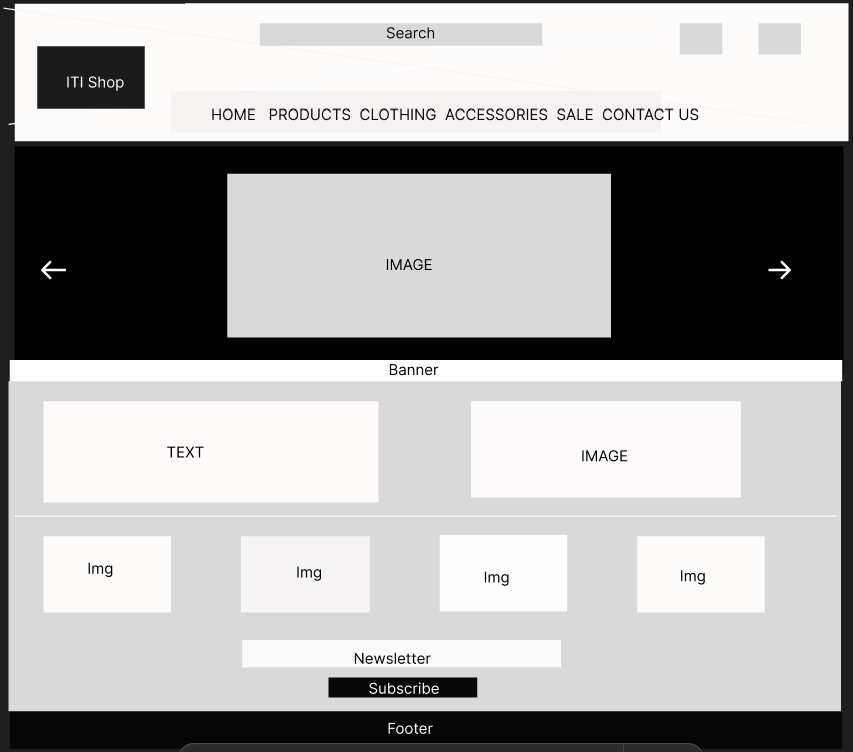
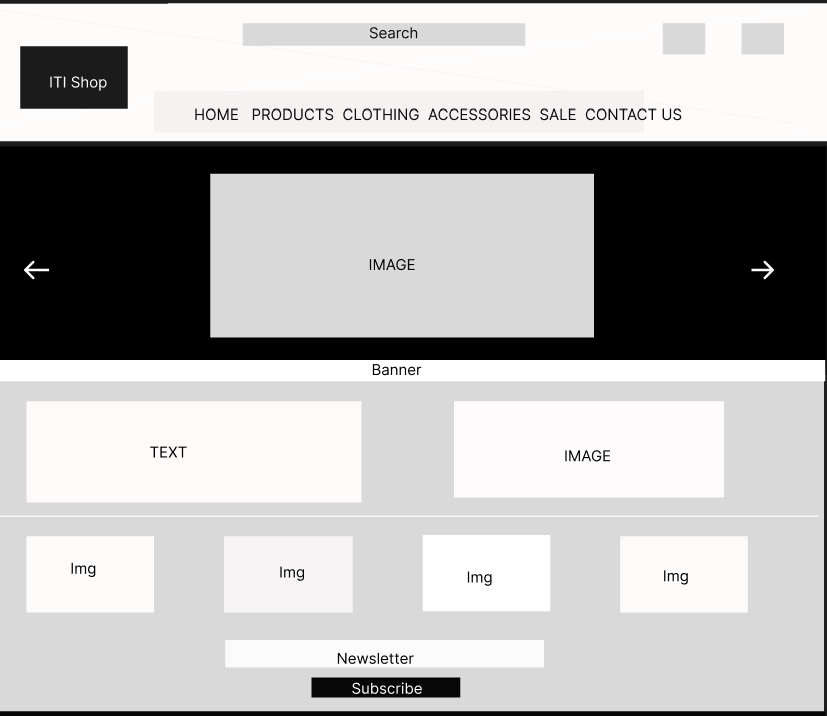
Add content and wireframes to readme file

diff --git a/README.md b/README.md
@@ -6,26 +6,30 @@
 
 #### Welcome to ITI Shop ! 
 
-It is an online clothing store offering a wide variety of fashion items. The website is easy to navigate, allowing customers to browse and purchase products quickly. With features like product reviews and wishlists, ITI Shop provides a smooth and enjoyable shopping experience. The site is designed with security in mind, ensuring that all transactions are safe and user information is protected.
+ITI Shop is an online clothing store offering a wide variety of fashion items. The website is easy to navigate, allowing customers to browse and purchase products quickly. With features like product reviews and wishlists, ITI Shop provides a smooth and enjoyable shopping experience. The site is designed with security in mind, ensuring that all transactions are safe and user information is protected.
 
 ## Table of Contents
 
 ### [UX](#ux)
-- [The Strategy Plane](#the-strategy-plane)
+- [The Strategy](#the-strategy)
 - [Targeted Users](#targeted-users)
 - [Site Goals](#site-goals)
 - [Project Goals](#project-goals)
-- [Agile Planning](#agile-planning)
-- [User Stories](#user-stories)
-- [Fundamental Structure](#fundamental-structure)
 
-### [Wireframes](#wireframes)
 
-### [Database Schema](#database-schema)
+ ## [Agile Development](#agile-development)
+  - [Project Board](#project-board)
+  - [User Stories](#user-stories)
+
+
+
+## [Wireframes](#wireframes)
+
+### [Database Design](#database-design)
 
 ### [Main Plan](#main-plan)
 
-### [Structure Plane](#structure-plane)
+### [Structure ](#structure)
 - [Features](#features)
   - [Home Page](#home-page)
   - [Random Products Section](#)
@@ -81,3 +85,144 @@ It is an online clothing store offering a wide variety of fashion items. The web
 ### [Deployment](#deployment)
 
 ### [Acknowledgements](#acknowledgements)
+
+
+## UX
+
+### The Strategy
+
+The primary goal of ITI shop is to provide an enjoyable shopping experience for users looking for fashionable and affordable clothing. The aim is to create an engaging platform that allows users to browse, purchase, and interact with products effortlessly, whether they are casual visitors, returning customers, or admin users managing the store.
+
+### Targeted Users
+
+#### First-time Users
+   * These users are visiting the site for the first time and are able to view the products available, learn about the brand, and possibly make a purchase as a guest.
+#### Registered Users
+  * These users have an account on the site, enabling them to enjoy a more personalized shopping experience, such as saving items to a wishlist, reviewing products, and managing their user account.
+#### Admin Users
+  * These users manage the site by adding and editing products, overseeing orders, and handling customer inquiries.
+
+
+### Site Goals
+
+ * Offer a user-friendly interface with clear navigation and engaging content.
+ * Encourage visitors to make purchases by providing an intuitive shopping experience.
+ * Create a platform that encourages users to return through personalized experiences, including wishlist features,
+ similar product recommendations , reviews etc.
+ * Provide admins with straightforward tools to manage products, orders, and customer interactions effectively.
+
+### Project Goals
+ * Ensure the website is accessible and visually appealing on all devices, including desktops, tablets, and smartphones.
+ * Develop functionalities such as user authentication, product browsing, shopping cart management, and a secure checkout process.
+ * Introduce features like product reviews, similar and matching product suggestions, wishlist and newsletter subscriptions to enhance user engagement.
+ * Build an easy-to-use admin interface that allows for efficient management of products, orders, and user communications.
+
+
+## Agile Development
+
+ The development of ITI Shop has followed Agile methodology, enabling continuous improvement and iterative development. User stories were created to define and prioritize the core functionalities needed for the site.
+
+#### MoSCoW
+For this project the MoSCoW technique, (Must have, Should have, Could have, Won't have) was used for planning User Stories.
+This approach helped in identifying the most critical features needed to deliver a functional and user-friendly product, ensuring that key elements were developed first to provide the best possible user experience.
+
+#### Kanban
+To efficiently manage and visualize the project's progress,the Kanban system was implemented.
+
+### Project Board
+
+The full Project Board can be found [here](https://github.com/users/Lin2907/projects/5/views/1).
+
+<img src= "media/screenshots/user-stories-board.png" alt= "Project User Stories Board">
+
+### User Stories
+Based on the user stories, a detailed project implementation plan was created. You can review the user stories [here](https://github.com/Lin2907/ITI-Shop/issues?q=is%3Aissue+is%3Aclosed).
+
+<img src= "media/screenshots/user-stories-list.png" alt= "Project User Stories List">
+
+<br>
+
+## Wireframes
+<details>
+<summary><h4 style="display: inline;">Landing page</h4></summary>
+<br>
+<img src= "media/screenshots/home-page-wireframe.png" alt= "Landing page wireframe">
+<img src= "media/screenshots/home-page-mobile.png" alt= "Landing page wireframe for mobile screens">
+</details>
+<br>
+<details>
+<summary><h4 style="display: inline;">Product Page</h4></summary>
+<br>
+<img src= "media/screenshots/product-page-wireframe.png" alt= "All products page wireframe">
+<img src= "media/screenshots/product-page-mobile.png" alt= "All products page wireframe for mobile screens">
+</details>
+<br>
+<details>
+<summary><h4 style="display: inline;">Product Detail Page</h4></summary>
+<br>
+<img src= "media/screenshots/product-detail-page-wireframe.png" alt= "Product detail page wireframe">
+<img src= "media/screenshots/product-detail-mobile.png" alt= "Product detail page wireframe for mobile screens">
+</details>
+<br>
+<details>
+<summary><h4 style="display: inline;">Newsletter Page</h4></summary>
+<br>
+<img src= "media/screenshots/newsletter-wireframe.png" alt= "Newsletter success page wireframe">
+<img src= "media/screenshots/newsletter-mobile.png" alt= "Newsletter success page wireframe for mobile screens">
+</details>
+<br>
+<details>
+<summary><h4 style="display: inline;">Add a Review Page</h4></summary>
+<br>
+<img src= "media/screenshots/add-review-wireframe.png" alt= "Add a review page wireframe">
+<img src= "media/screenshots/review-mobile.png" alt= "Add a review page wireframe for mobile screens">
+</details>
+<br>
+<details>
+<summary><h4 style="display: inline;">Contact Us Page</h4></summary>
+<br>
+<img src= "media/screenshots/contact-us-wireframe.png" alt= "Contact us page wireframe">
+<img src= "media/screenshots/contact-us-mobile.png" alt= "Contact Us page wireframe for mobile screens">
+</details>
+<br>
+<details>
+<summary><h4 style="display: inline;">Sign Up Page</h4></summary>
+<br>
+<img src= "media/screenshots/sign-up-wireframe.png" alt= "Sign up page wireframe">
+<img src= "media/screenshots/sign-up-mobile.png" alt= "Sign up page wireframe for mobile screens">
+</details>
+<br>
+<details>
+<summary><h4 style="display: inline;">Log in Page</h4></summary>
+<br>
+<img src= "media/screenshots/log-in-wireframe.png" alt= "Newsletter success page wireframe">
+<img src= "media/screenshots/log-in-mobile.png" alt= "Newsletter success page wireframe for mobile screens">
+</details>
+<br>
+<details>
+<summary><h4 style="display: inline;">Log out Page</h4></summary>
+<br>
+<img src= "media/screenshots/sign-out-wireframe.png" alt= "Sign out page wireframe">
+</details>
+<br>
+<details>
+<summary><h4 style="display: inline;">Custom 404 Page</h4></summary>
+<br>
+<img src= "media/screenshots/404-wireframe.png" alt= "Error 404 page wireframe">
+<img src= "media/screenshots/404-mobile.png" alt= "Error 404 page wireframe for mobile screens">
+</details>
+<br>
+<details>
+<summary><h4 style="display: inline;">Custom 500 Page</h4></summary>
+<br>
+<img src= "media/screenshots/500-wireframe.png" alt= "Error 500 page wireframe">
+<img src= "media/screenshots/500-mobile.png" alt= "Error 500 page wireframe for mobile screens">
+</details>
+
+
+## Database Design
+
+### ERD - Entity Relationship Diagram
+
+<img>
+
